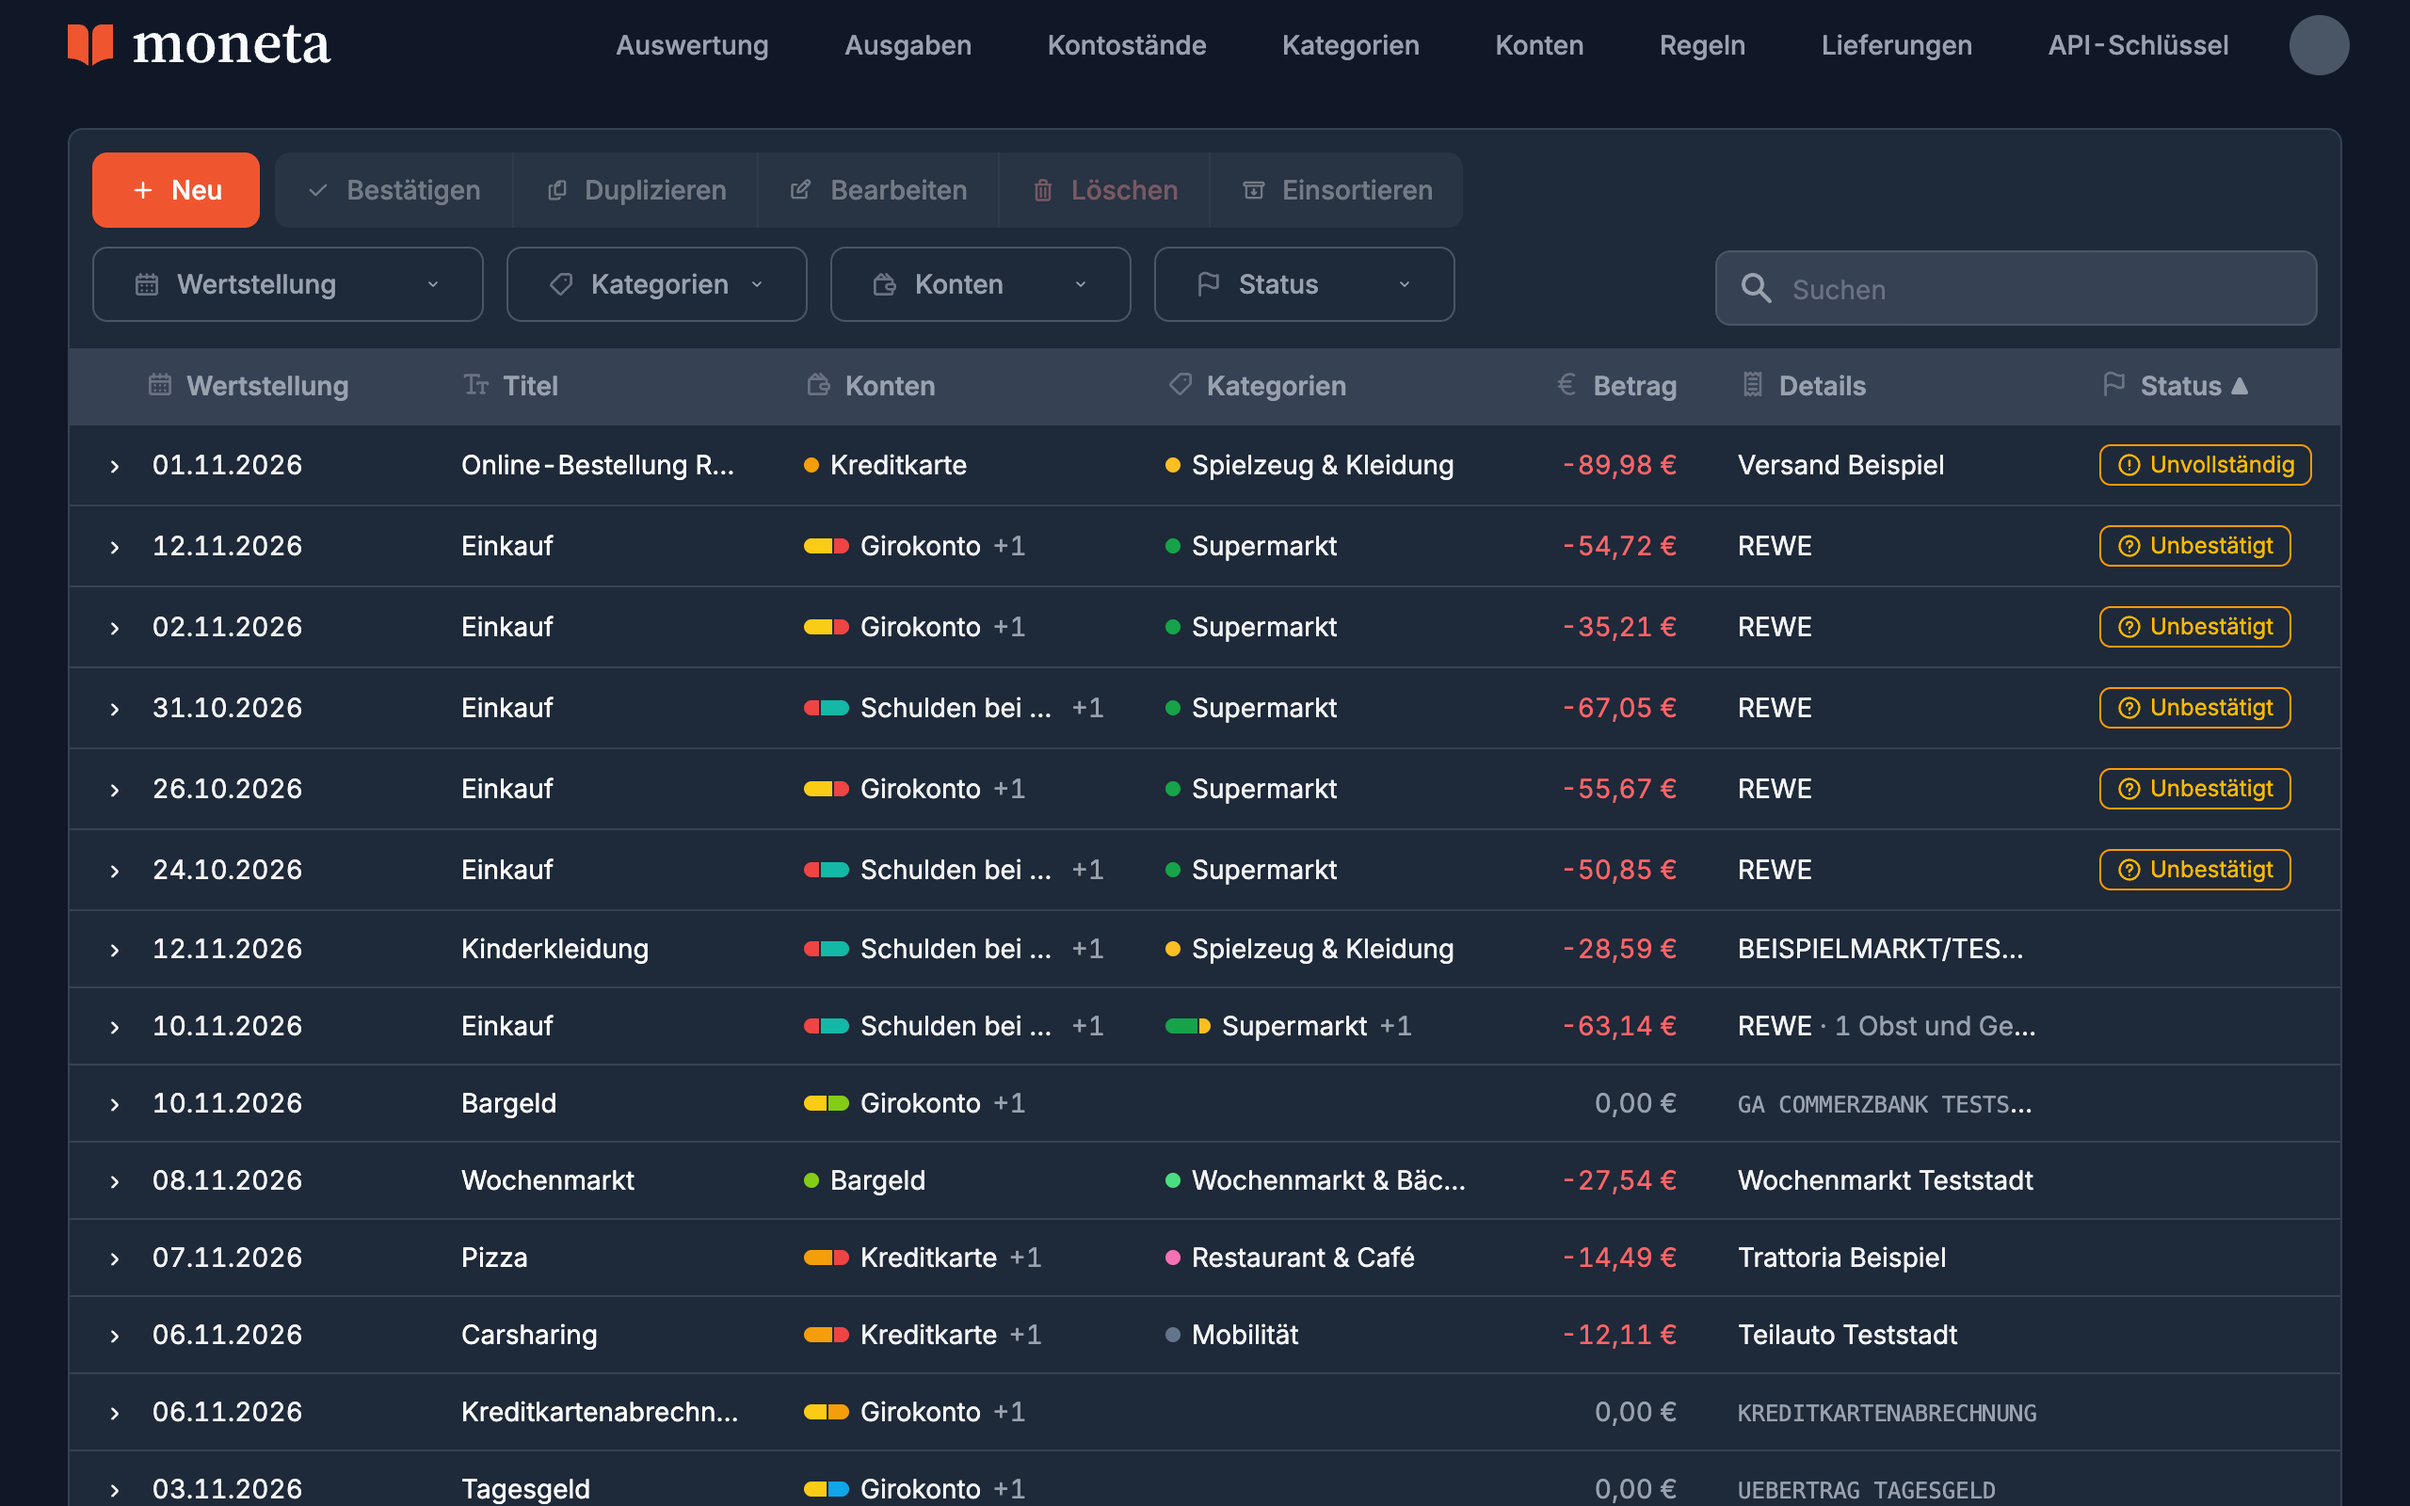
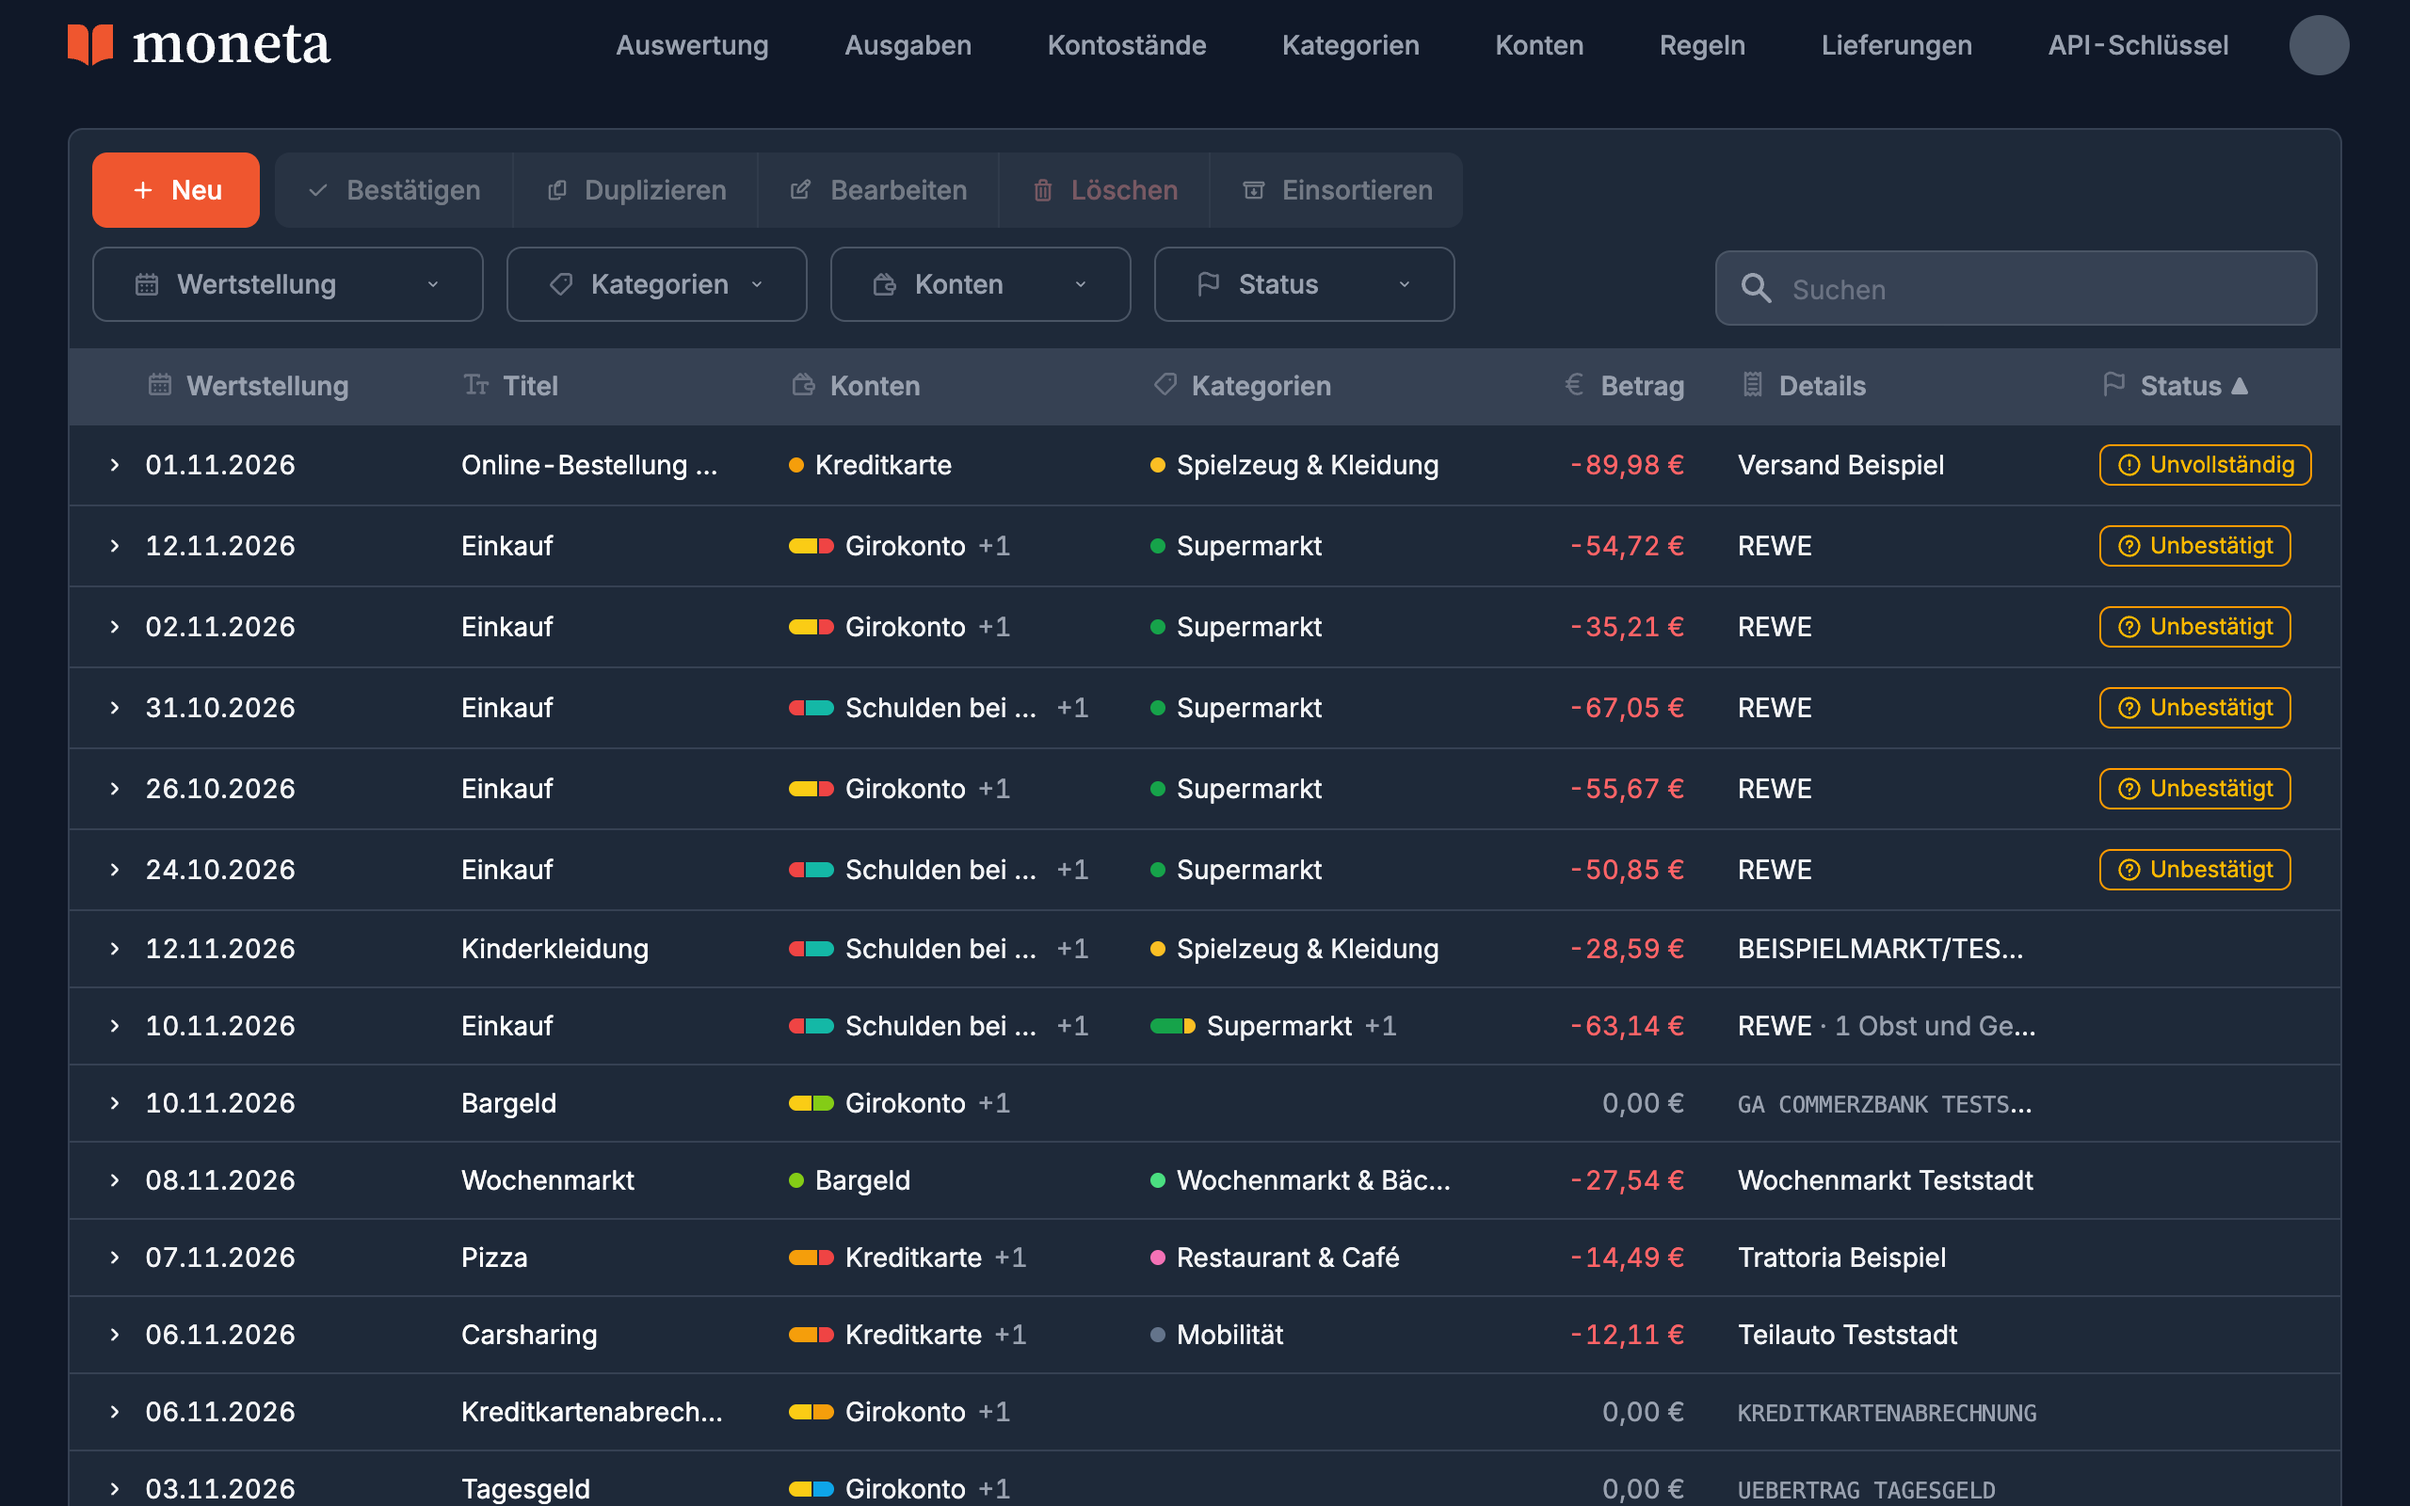
Fit ranges, large amounts and the search into the new widths
A value-date range (a merged or chained expense on several days) now
wraps after the dash instead of running into the title: the column is a
single date wide off the accrual axis.

Betrag is w-30 with the padding on the right: "-12.345,67 €" and its
"von" line need 96px, and w-28 with px-4 left 80, which a four-digit
amount already overran.

The search keeps at least md:min-w-40 and wraps under the filters below
that, rather than shrinking to a sliver at 768 to 1000px.

diff --git a/frontend/src/lib/ExpenseTable.svelte b/frontend/src/lib/ExpenseTable.svelte
@@ -1770,8 +1770,10 @@
 				<TagOutline class={headIcon} />Kategorien
 				<SortIcon direction={sort.on('categories')} />
 			</TableHeadCell>
+			<!-- "-12.345,67 €" and "von 12.345,67 €" need 96px; the padding sits on the right,
+			     where the figures align, and the left gives up all but 8px of it. -->
 			<TableHeadCell
-				class="w-28 px-2 py-3 text-right md:px-4"
+				class="w-30 px-2 py-3 text-right md:pr-3"
 				scope="col"
 				onclick={() => sort.by('effectiveAmount')}
 			>
@@ -1809,16 +1811,20 @@
 				>
 					<!-- text-xs on a phone: a date is what the row is filed under rather than what it
 					     says, and the ten characters it takes are ten the title does not get -->
-					<TableBodyCell class="px-2 py-3 text-xs whitespace-nowrap md:px-4 md:text-sm">
-						<button type="button" class="mr-1 focus:outline-none md:mr-2">
-							{#if expandedRows.includes(expense.id)}
-								<ChevronDownOutline class="inline h-4 w-4" />
-							{:else}
-								<ChevronRightOutline class="inline h-4 w-4" />
-							{/if}
-						</button>
-						{@const period = axisPeriod(expense)}
-						{formatAccrualPeriod(period[0], period[1], false)}
+					<!-- The dates wrap after the dash rather than run into the title: the column is a
+					     single date wide off the accrual axis, and a merged or chained expense whose
+					     transactions sit on different days still shows a range there. -->
+					<TableBodyCell class="px-2 py-3 text-xs whitespace-normal md:px-4 md:text-sm">
+						<span class="flex items-center">
+							<button type="button" class="mr-1 shrink-0 focus:outline-none md:mr-2">
+								{#if expandedRows.includes(expense.id)}
+									<ChevronDownOutline class="h-4 w-4" />
+								{:else}
+									<ChevronRightOutline class="h-4 w-4" />
+								{/if}
+							</button>
+							<span>{formatAccrualPeriod(...axisPeriod(expense))}</span>
+						</span>
 					</TableBodyCell>
 					<!-- `w-full max-w-0` is what makes the inner block truncate: a table cell is as wide
 					     as its content unless something says otherwise, and `truncate` on the cell
@@ -1847,7 +1853,7 @@
 					</TableBodyCell>
 					{@const part = partOf(expense)}
 					<TableBodyCell
-						class={'px-2 py-3 text-right whitespace-nowrap md:px-4 ' +
+						class={'px-2 py-3 text-right whitespace-nowrap md:pr-3 ' +
 							restingAmountColor(expense.effectiveAmount)}
 					>
 						{signedEuro(expense.effectiveAmount * part)}

diff --git a/frontend/src/lib/table_styles.ts b/frontend/src/lib/table_styles.ts
@@ -19,9 +19,11 @@ export const tableSearchClasses = {
 	inner:
 		'flex flex-col md:flex-row md:flex-wrap items-center justify-between gap-y-2 space-y-2 md:space-y-0 md:gap-x-4 p-2 sm:p-3',
 	// order-last: the buttons that act on the table belong at the reading edge, the search that
-	// narrows it at the far one, and every table here says it the same way. `min-w-0 flex-1` so
-	// a wide filter row takes the width off the search rather than wrapping it onto its own line
-	search: 'relative w-full min-w-0 flex-1 md:order-last md:w-56 md:max-w-xs',
+	// narrows it at the far one, and every table here says it the same way. `flex-1` so a wide
+	// filter row takes the width off the search rather than wrapping it onto its own line, down to
+	// `md:min-w-40`: below that a search field is a sliver nobody can type into, and it is better
+	// off on a line of its own under the filters (the expense list between 768 and ~1000px)
+	search: 'relative w-full min-w-0 flex-1 md:order-last md:w-56 md:max-w-xs md:min-w-40',
 	// flowbite sizes the input itself at a fixed `w-80`, which ignores whatever width the
 	// wrapper around it was given and hangs 25px out of the card on the expense list.
 	input: 'w-full ps-10 h-10 py-0'

diff --git a/frontend/src/lib/ExpenseModal.svelte b/frontend/src/lib/ExpenseModal.svelte
@@ -588,7 +588,7 @@
 	     same flag, icon and all: what you switch on here is what you then look for in the row. On
 	     is that chip with full-strength text on a light surface; off is a dashed outline in grey
 	     text, which reads as "could be" rather than as a state. A state waiting for a person is
-     amber when on, as in the list. -->
+	     amber when on, as in the list. -->
 	<button
 		type="button"
 		aria-pressed={on}

diff --git a/frontend/DESIGN.md b/frontend/DESIGN.md
@@ -229,7 +229,8 @@ Code, comments and commit messages are English. Only what a reader sees is Germa
   takes `md:table-fixed`: without a header the detail row's `colspan` is the widest row.
   The expense date column reserves a range's width on the Leistungszeitraum axis and a single
   date's on the other two, since that is all they show. Use a real width: fixed table layout
-  ignores cell min-width. Betrag is as wide as a typical amount, Konten and Kategorien grow with
+  ignores cell min-width. Betrag is as wide as a five-digit amount with its `von` line and no
+  wider, with its padding on the right where the figures align, Konten and Kategorien grow with
   the breakpoint, and the title takes the rest.
 - **A detail row is two columns from `lg`**: what is prose on the left as a `dl`, what is a table
   on the right. A row of the expense list is two thousand pixels wide and its detail used to be
